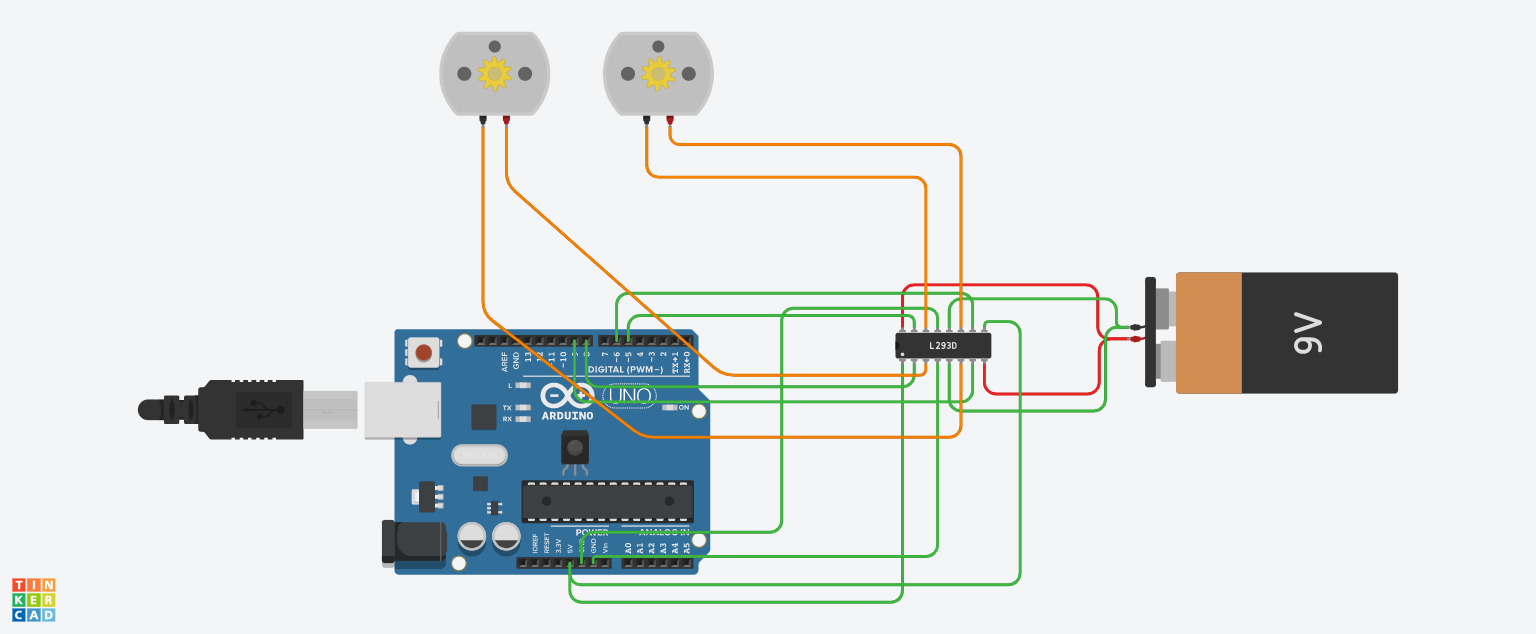
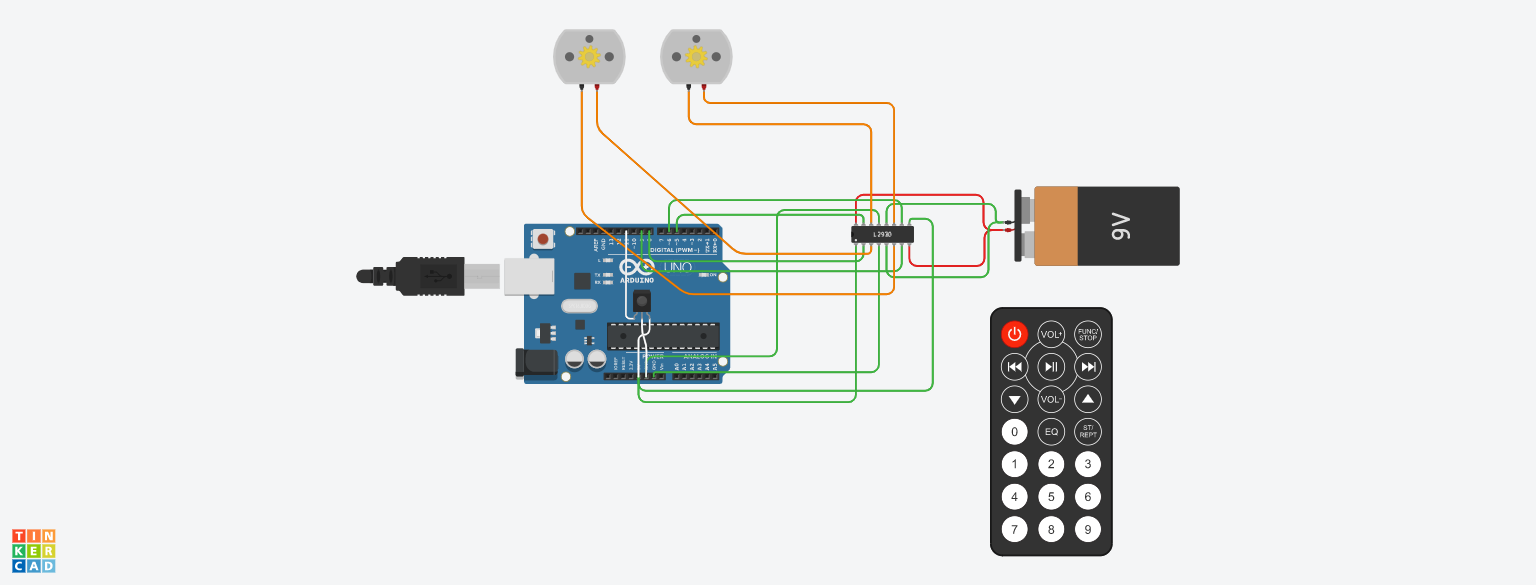
第三次作业更新by鲁小龙

Changed region(s): [[0.0938, 0.0308, 0.9375, 0.9538], [0.0, 0.8923, 0.0625, 0.9846]]

diff --git a/lesson3/doubleMotor.c b/lesson3/doubleMotor.c
@@ -4,9 +4,15 @@
 #define in1 8
 #define in2 9
 char ch = ' ';
+#include <IRremote.h>  
+int RECV_PIN = 11;  
+IRrecv irrecv(RECV_PIN);   
+decode_results results; 
+
 void setup()
 {
   Serial.begin(9600);
+  irrecv.enableIRIn();
   pinMode(5, OUTPUT);
   pinMode(6, OUTPUT);
   pinMode(8, OUTPUT);
@@ -15,7 +21,56 @@ void setup()
 
 void loop()
 {
+      /*
+      if (irrecv.decode(&results))//解码成功，收到一组红外讯号   
+	  {  
+	    Serial.println(results.value);//以16进制换行输出接收代码  
+	    irrecv.resume(); // 接收下一个值  
+	  }  
+	  delay(100);
+      */
   
+    if(irrecv.decode(&results))
+  	{
+      if(results.value == 16615543)
+      {
+        digitalWrite(in1,HIGH);
+        digitalWrite(in2,LOW);
+        digitalWrite(in3,HIGH);
+        digitalWrite(in4,LOW);
+      }
+      else if(results.value == 16619623)
+      {
+        digitalWrite(in1,LOW);
+        digitalWrite(in2,HIGH);
+        digitalWrite(in3,LOW);
+        digitalWrite(in4,HIGH);
+      }  
+      else if(results.value == 16607383)
+      {
+        digitalWrite(in1,HIGH);
+        digitalWrite(in2,LOW);
+        digitalWrite(in3,LOW);
+        digitalWrite(in4,LOW);
+      }
+      else if(results.value == 16591063)
+      {
+        digitalWrite(in1,LOW);
+        digitalWrite(in2,LOW);
+        digitalWrite(in3,HIGH);
+        digitalWrite(in4,LOW);
+      }
+      else if(results.value == 16623703)
+      {
+        digitalWrite(in1,LOW);
+        digitalWrite(in2,LOW);
+        digitalWrite(in3,LOW);
+        digitalWrite(in4,LOW);
+      }
+      irrecv.resume();
+      delay(50);
+  	}
+  /*
   if(Serial.available()>0)
   {
     ch = Serial.read();
@@ -55,4 +110,5 @@ void loop()
       digitalWrite(in4,LOW);
     }
   }
+  */
 }
